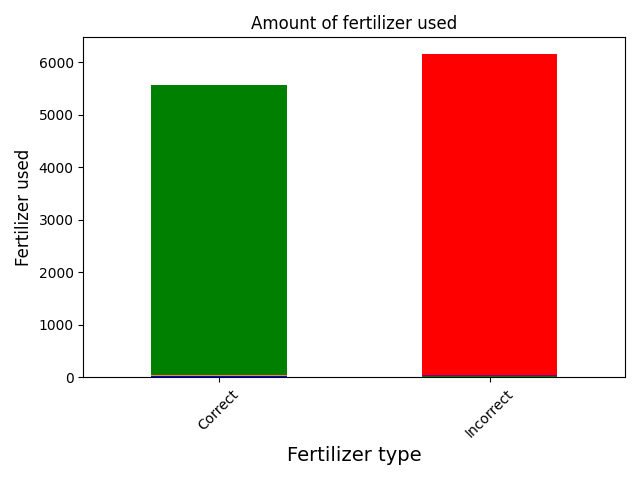
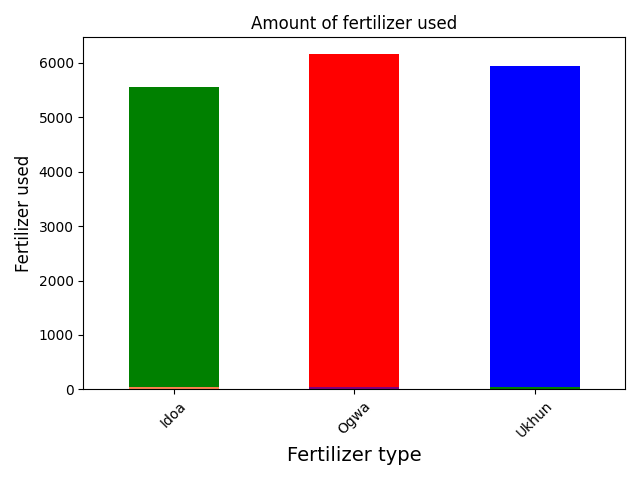
i have added more

diff --git a/jpil_farmers_analysis.py b/jpil_farmers_analysis.py
@@ -68,10 +68,10 @@ plt.savefig("crop_type_farm_size.png")
 #plt.show()
 
 #what is the typical yield change for cassava farmers compared to yam farmers?
-typical_yield_change=df.groupby("Crop Type")["Yield Change"].mean()
-print(typical_yield_change)
+#typical_yield_change=df.groupby("Crop Type")["Yield Change"].mean()
+#print(typical_yield_change)
 
-typical_yield_change.plot(kind="bar", color=["orange", "green"])
+#typical_yield_change.plot(kind="bar", color=["orange", "green"])
 plt.title("Typical yield change")
 plt.xlabel("Crop type", fontsize=14)
 plt.ylabel("Yield change")
@@ -82,10 +82,10 @@ plt.savefig("Typical_yield_change.png")
 
 
 #what is the typical amount of fertilizer used by farmers who used it correctly and incorrectly?
-amount_of_fertilizer_used=df.groupby("Fertilizer Type")["Fertilizer Used kg"].count()
-print(amount_of_fertilizer_used)
+#amount_of_fertilizer_used=df.groupby("Fertilizer Type")["Fertilizer Used kg"].count()
+#print(amount_of_fertilizer_used)
 
-amount_of_fertilizer_used.plot(kind="bar", color=["blue","green"])
+#amount_of_fertilizer_used.plot(kind="bar", color=["blue","green"])
 plt.title("Amount of fertilizer used")
 plt.xlabel("Fertilizer type")
 plt.ylabel("Fertilizer used")
@@ -95,15 +95,115 @@ plt.savefig("Amount_of_fertilizer_used.png")
 #plt.show()
 
 #what is the median farm size for farmers who had pest problems versus those who did not?
-median_farm_size=df.groupby("Pest Incidence")["Farm Size ha"].median()
-print(median_farm_size)
+#median_farm_size=df.groupby("Pest Incidence")["Farm Size ha"].median()
+#print(median_farm_size)
 
-median_farm_size.plot(kind="bar", color=["orange","blue"])
+#median_farm_size.plot(kind="bar", color=["orange","blue"])
 plt.title("Median_farm_size", fontsize=12)
 plt.xlabel("Pest incidence", fontsize=14)
 plt.ylabel("Farm size ha")
 plt.xticks(rotation=45)
 plt.savefig("Median_farm_size.png")
 plt.tight_layout()
-plt.show()
+#plt.show()
 
+
+#what is the most common crop grown by farmers in this dataset?
+most_common_crop=df["Crop Type"].value_counts()
+#print(most_common_crop)
+
+most_common_crop.plot(kind="bar", color=["coral","blue"])
+plt.title("Most Common Crop")
+plt.xlabel("Crop Type")
+plt.ylabel("Number of farmers")
+plt.xticks(rotation=45)
+plt.savefig("Most_common_crop.png")
+plt.tight_layout()
+#plt.show()
+
+
+#which village appears most frequently in the dataset?
+#most_frequent_appearing_village=df["Village"].value_counts()
+#print(most_frequent_appearing_village)
+
+#most_frequent_appearing_village.plot(kind="bar", color=["coral","brown","blue"])
+#plt.title("Most Frequent Appearing Village")
+#plt.xlabel("Village")
+#plt.ylabel("Number of farmers")
+plt.xticks(rotation=45)
+#plt.savefig("Most_frequent_appearing_village.png")
+plt.tight_layout()
+#plt.show()
+
+
+#is pest incidence more common than not among these farmers?
+#pest_incidence=df["Pest Incidence"].value_counts()
+#print(pest_incidence)
+
+#i will be plotting a pie chart
+#plt.figure(figsize=(7,7))
+#pest_incidence.plot(
+    #kind="pie",
+    #color=["coral", "seagreen"],
+    #autopct="%1.1f%%",
+    #startangle=90,
+    
+#)
+#plt.title("Pest Incidence")
+#plt.ylabel("")
+#plt.tight_layout()
+#plt.savefig("Pest_incidence_piechart.png")
+#plt.show()
+
+
+#what is the most common type of land ownership among the farmers? what type of chart are we using to draw it?
+#most_common_type_of_land_ownership=df["Land Tenure"].value_counts()
+#print(most_common_type_of_land_ownership)
+
+#most_common_type_of_land_ownership.plot(kind="bar", color=["coral","brown","blue"])
+#plt.title("Most Common Type Of Land Ownership")
+#plt.xlabel("Land Tenure")
+#plt.ylabel("Number of farmers")
+#plt.xticks(rotation=45)
+#plt.savefig("Most_common_type_of_land_ownership.png")
+plt.tight_layout()
+#plt.show()
+
+
+#Draw a bar chart showing the average yield after training for each village
+#avg_yield_after_training = df.groupby("Village")["Yield After kg per hec"].mean()
+#print(avg_yield_after_training)
+
+#avg_yield_after_training.plot(kind="bar", color=["brown","blue", "indigo"])
+#plt.title("average yield after training")
+#plt.xlabel("Village", fontsize=14)
+#plt.ylabel("Yield After kg per hec")
+plt.xticks(rotation=45)
+plt.savefig("Average_yield_after_per_village.png")
+#plt.show()
+
+
+#draw a bar chart showing the median fertilizer used by correct vs incorrect fertilizer users
+#median_fertilizer_used=df.groupby("Fertilizer Type")["Fertilizer Used kg"].median()
+#print(median_fertilizer_used)
+
+#median_fertilizer_used.plot(kind="bar", color=["brown","blue", "indigo"])
+#plt.title("Median fertilizer used")
+#plt.xlabel("Fertilizer Type", fontsize=14)
+#plt.ylabel("Fertilizer Used kg", fontsize=14)
+plt.xticks(rotation=45)
+plt.savefig("Median_Fertilizer_Used.png")
+#plt.show()
+
+
+#draw a bar chart showing how many farmers grow each crop type
+number_of_farmers_for_each_crop_type=df["Crop Type"].value_counts()
+print(number_of_farmers_for_each_crop_type)
+
+number_of_farmers_for_each_crop_type.plot(kind="bar", color=["brown","blue", "indigo"])
+plt.title("Number of farmers for each crop type", fontsize=14, fontweight="bold")
+plt.xlabel("Crop Type", fontsize=14)
+plt.ylabel("Farmer ID", fontsize=14)
+plt.xticks(rotation=45)
+plt.savefig("Number_of_farmers_for_each_crop_type.png")
+plt.show()
